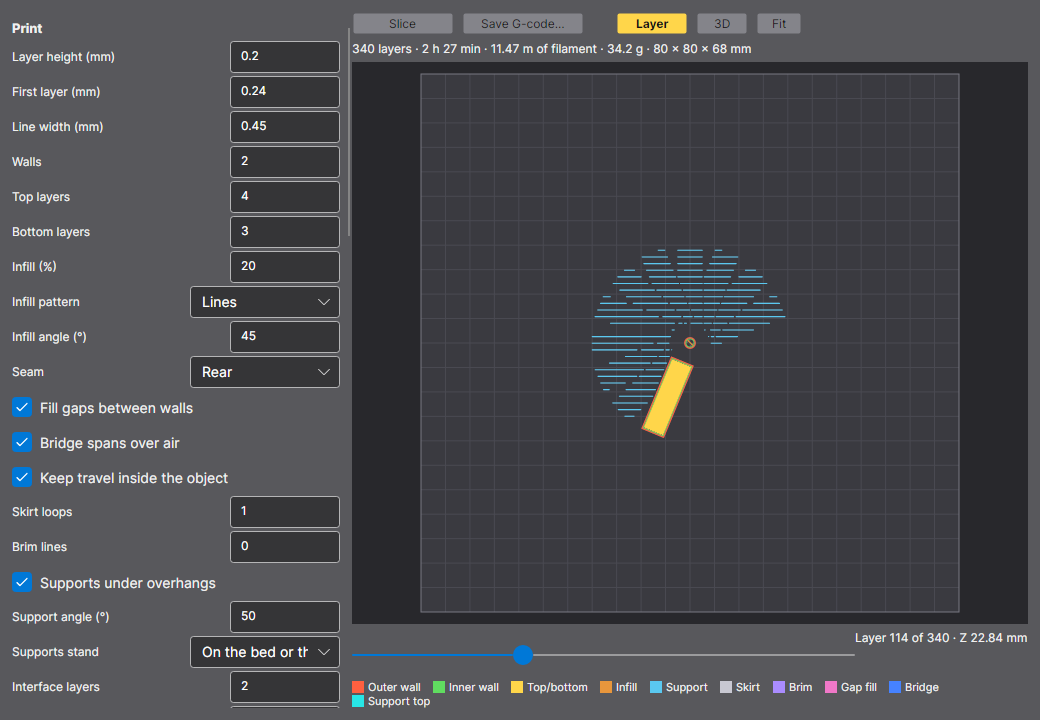
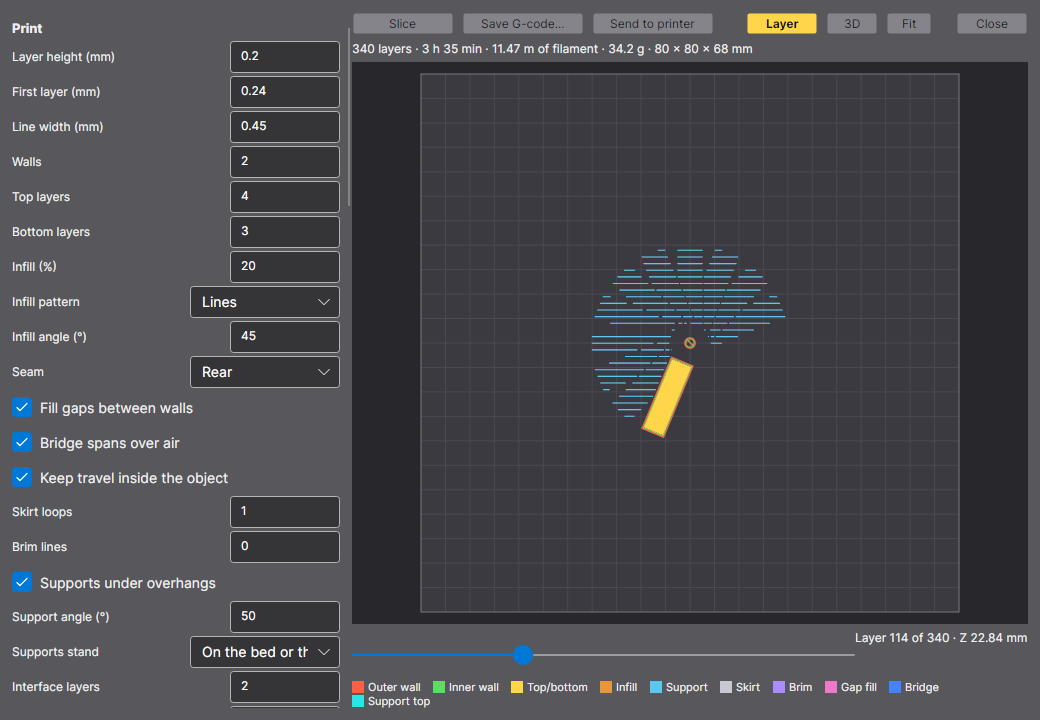
README test counts and the Print window's screenshots

Changed region(s): [[0.4, 0.0, 0.8923, 0.0917], [0.9231, 0.0, 0.9846, 0.0611]]

diff --git a/README.md b/README.md
@@ -880,7 +880,7 @@ dotnet run --project src/AVAModeler
 dotnet test AVAModeler.slnx
 ```
 
-It needs the .NET 10 SDK. 1268 tests cover every layer:
+It needs the .NET 10 SDK. 1294 tests cover every layer:
 
 | Tests | Count | What they cover |
 |---|---|---|
@@ -888,14 +888,14 @@ It needs the .NET 10 SDK. 1268 tests cover every layer:
 | Formats | 93 | LWOB byte-identical round trips (textures included, and hand-built procedural CTEX/BTEX/DTEX/STEX sub-chunk sets: their colours, values, falloff and settings read, an unknown kind kept, edits rewriting only what changed, new procedurals of every kind written and read back), LWLO layers, detail polygons, LWO2 (UV maps, seams and image blocks), GEO, OBJ (`vt` and .mtl maps), image paths, malformed files; glTF: a .glb's structure checked by hand (header, 4-byte chunk alignment, the JSON, POSITION's min and max, buffer views inside the buffer), round trips as .glb, .gltf and .gltf with a .bin (triangle counts, positions, UVs, materials and the embedded image), a known triangle facing the right way after conversion, smooth and flat normals, projected maps baked into UVs, node transforms, strips and outside files, malformed files; STL binary and ASCII round trips, Z up and winding, a binary file that starts with "solid"; LWO2 procedural blocks (known kinds read, others skipped); colour procedurals baked into glTF images, as a box map (each side's checks where they are on a box and a floor) and through a UV map |
 | Geometry | 110 | Booleans and drills (exact volumes, watertight results, UVs kept), subdivision, the Multiply algorithms, triangulation; the mesh check on known shapes (a closed box's volume, area and centre, a missing face's 4-edge hole, two holes, two shells, a flipped face, an inside-out box with negative volume, a cavity, duplicate and unused points, degenerate and non-manifold polygons, a ball's volume against 4/3·π·r³, non-planar quads, dots and lines, millimetre sizes) and Remove Degenerate; the edge and face tools, each followed by the mesh check: loops across a grid, round a hole's rim and stopped by a triangle, rings round a cylinder and a box, Loop Cut round a box (one cut and three) and a cylinder and across one into its caps, Fill Hole every way on a box missing a face and as quads on an octagon, Bridge between two open boxes (at every starting rotation, without twist, and in segments), between two faces and between edge loops, refusing 4 points against 8, Inset one face (with a frustum's exact volume) and as a group or face by face, Chamfer of one box edge (the prism's volume), rounded (against a quarter circle), three edges at a corner, every edge and a loop of four; UVs on the new points checked against their positions |
 | Rendering | 51 | The four views' projections; a document as the views draw it; the OpenGL camera matrix landing every point where the software one does; shading, smoothing, picking; textures, with the OpenGL renderer's textured picture checked against the software one (on a real OpenGL or OpenGL ES context where there is one); a checkerboard drawn at every pixel of a four-cornered face, value-channel and unknown procedurals leaving the view alone, and marble, fractal noise, wood, dots and a checkerboard drawn by the OpenGL shader as the software renderer draws them (its vertex data and sums, and on a real context); backdrops in the top, front and side views where their world coordinates say (each view's camera axes matching), panning and zooming with the view, not in the other views, under the grid and the wireframe, brightness, contrast, invert and opacity, a missing image's checker, and the OpenGL renderer's backdrop matching the software one (its vertex data and shader sums, and on a real context). The screen door for dissolved layers (dither coverage, faces and wire, the software and OpenGL pictures agreeing); the OpenGL comparison tests share one collection, and `OffscreenGl` makes and closes its contexts one at a time. Sizing an OpenGL view from its framebuffer (the attachment, then the viewport, then the bounds), a real framebuffer's renderbuffer and texture sizes with their bindings put back, and a square drawn at the middle of a framebuffer twice its control's size. |
-| Slicing | 121 | Profiles and their checks, placeholders, the setup's JSON; placing a cube on the bed (20 mm from 2 cm, centred or as modelled, scaled, too big or overhanging said, background layers left out); slicing a cube, a tube's hole, separate and overlapping shells, a solid in a hole, a pyramid's shrinking squares, an open mesh's chains, the last layer ending at the top; Clipper2's offsets, unions, differences, clipped lines and islands; toolpaths (wall lengths, solid layers at the top and bottom only, skin and infill spacing, lines turning each layer, grid both ways, walls round holes, seams at the back, a brim touching the object, supports under a T with their gap and none under a cube, short orders); G-code played back as a printer would (heated and homed first, every line on the object, the filament matching the lines' volume, retraction put back, hops round travel, placeholders, speeds by kind, plain ASCII, a whole file); the same safety checks over cubes, a tube, a ball, a T with supports and two blocks with brims, grids, hops, seams, fine layers, a smaller bed and another material (on the bed, under the height, hot before printing, layers rising, retractions put back); a 9000-triangle ball's cuts within 3% of its true circles, sliced in seconds; a solid cube's plastic matching its volume; and a small print against a reference G-code file; gap fill along a fin too thin for a wall and between walls with no room for another loop (with its own width's filament), bridges across an arch at the angle that lands on both posts with the fan full, quick layers slowed to cool, combing round a hole (and when it can't) cutting a tube's retractions, laying a box on its largest or selected face, turning it, copies in rows, rotations, support interface layers crossways and bed-only supports; every printer preset checked and slicing a cube safely on its own bed (in its own coordinates, with its own retraction), the Creator Pro round its middle with Sailfish homing, round beds, and the new printer settings through JSON |
+| Slicing | 146 | Profiles and their checks, placeholders, the setup's JSON; placing a cube on the bed (20 mm from 2 cm, centred or as modelled, scaled, too big or overhanging said, background layers left out); slicing a cube, a tube's hole, separate and overlapping shells, a solid in a hole, a pyramid's shrinking squares, an open mesh's chains, the last layer ending at the top; Clipper2's offsets, unions, differences, clipped lines and islands; toolpaths (wall lengths, solid layers at the top and bottom only, skin and infill spacing, lines turning each layer, grid both ways, walls round holes, seams at the back, a brim touching the object, supports under a T with their gap and none under a cube, short orders); G-code played back as a printer would (heated and homed first, every line on the object, the filament matching the lines' volume, retraction put back, hops round travel, placeholders, speeds by kind, plain ASCII, a whole file); the same safety checks over cubes, a tube, a ball, a T with supports and two blocks with brims, grids, hops, seams, fine layers, a smaller bed and another material (on the bed, under the height, hot before printing, layers rising, retractions put back); a 9000-triangle ball's cuts within 3% of its true circles, sliced in seconds; a solid cube's plastic matching its volume; and a small print against a reference G-code file; gap fill along a fin too thin for a wall and between walls with no room for another loop (with its own width's filament), bridges across an arch at the angle that lands on both posts with the fan full, quick layers slowed to cool, combing round a hole (and when it can't) cutting a tube's retractions, laying a box on its largest or selected face, turning it, copies in rows, rotations, support interface layers crossways and bed-only supports; every printer preset checked and slicing a cube safely on its own bed (in its own coordinates, with its own retraction), the Creator Pro round its middle with Sailfish homing, round beds, and the new printer settings through JSON; .x3g for the Creator Pro byte for byte on a small program and read back command by command for a cube (heated and waited for with no timeout, homed, every move on the bed, every millimetre of filament to the step, G28 refused); uploads to a fake OctoPrint and Moonraker (the path, the key only in its header, print on or off, refusals, busy and unreachable printers as one line with the key masked, the key's owner-only file); gyroid infill's density, curves and shift with height; move times with acceleration and corners; and every material printing a cube at its temperatures |
 | Tools | 94 | Every tool, the numeric parameters and their checks, the command API, Lua macros (and their time limit), a plugin loaded from its own assembly, the spaceship and logo built from scratch; Make UVs, UVs through every kind of edit, the UV space, the texture commands, macros saving and loading glTF and STL; Select Problems for each kind (and its undo), Align fixing what the check calls flipped, Remove Degenerate (and its undo), and `checkmesh()`; `slice()` (its options, the macro's folder, a table back, nothing changed in the object, its mistakes writing nothing); Select Loop and Ring (from an edge or two points), and Loop Cut, Inset (group and individual), Chamfer, Fill Hole and Bridge on UV-mapped boxes: closed, mapped, undone exactly and redone, their errors, and a macro using `seledges`, `selloop`, `selring` and the new tools; `proctex()` and `texture()` with a procedural's name (settings by name, each call one undo step, mistakes changing nothing) and the procedurals sample; `backdrop()` and `nobackdrop()` (options, relative paths from the macro's folder, Fit and PixelSize, mistakes changing nothing, a missing image's note, backdrops kept through new and load) and the rocket blueprints sample. The Lua sandbox for other apps (their own globals and print, the time limit, no os, io or require, errors as `MacroException`, the table helpers). |
 | Scene | 298 | Transforms, TCB envelopes, cameras, lights, LWS v1/v3 and JSON scenes, bones, morphs, the ray tracer and its textures, filtering and bump maps; procedurals rendered (a marble ball differing from a plain one and the same every time, a checkerboard moving with its object or staying put in world coordinates, a luminosity procedural, fractal-noise and ripple bumps changing the shading but not the silhouette) and kept in .avascene files; scene snapshots (morph and displacement settings included) and copies, aiming an item at a point, object paths relative to the scene; the render effects: with all of them off a busy scene renders byte for byte as before they existed (pinned hashes), ambient occlusion darkening a corner but not the open floor, an area light's shadow with a penumbra where a point light's is hard (and a radius softening point and spot lights), an area light shining from its front only, the environment as the backdrop in every direction (turned by its heading, scaled by its intensity), in a mirror, and lighting a ball's side facing the bright sky, built-in environments and a missing one's warning, depth of field keeping the focused card's edge sharp and blurring the other, LightWave's lens maths, motion blur smearing a moving ball along its path while a still one stays sharp (and a panning camera), the same picture every time on any threads, and every setting through snapshots, copies, .avascene (an environment file stored relatively) and .lws (LightWave 5's and 6's camera lines and area lights); inverse kinematics: a two-bone arm reaching a goal within reach (and following it as it moves), stretched straight toward one out of reach, joint limits keeping rotations in bounds, locked channels keeping their keys, an anchor stopping the chain, the same answer every time, in copies and on many threads, the solved pose bending the object, full-time IK off playing the keys, baking, what can't be a goal, and the settings through snapshots, .avascene and .lws (LightWave 5's `GoalObject` and limits read); following a path: the spline along a line and round a circle (on it, wrapping, evenly by length, turning by one over its radius), an item where its path.position says at each frame, aligned along the tangent and looking ahead, banking into turns with its bank key added, a parented follower and moving points, what can't be a point, points removed, snapshots, copies, .avascene, the .lws warning, and baking; an item's lock through copies, snapshots and .avascene (written only when set). Key spans (TCB unchanged bit for bit, linear, stepped, Bezier the same as Hermite), continuity at keys, behaviours with every span, slopes and time scaling, .avascene and .lws span round trips; motion modifiers (lag, jitter, cycle, oscillate, loops cut whatever is asked first, copies, snapshots, .avascene, a lagged object rendered where its leader was) and .mot files (version 1 and 3 round trips, a LightWave 5 file, malformed ones refused, applying to another item); light effects: shadow maps against ray-traced shadows (no shadow rays, fuzziness, point and distant lights), lens flares (fades behind and off screen, streaks, the intensity envelope, alpha untouched), volumetric beams (inside the cone only, shadowed shafts, samples, fog), the same bytes on any number of threads, and their files; object dissolve (colour and alpha, shadows, wholly dissolved), image sequences (resolving, holding, looping, offsets), sequence textures, background and foreground compositing with colour and alpha keys, warnings, and their copies, snapshots and files; copying items into a scene (`CopyItems`: within it and from another, bones with their object, links among the copies). |
 | Layout | 94 | Layout's session without its controls: how values become keys (the controls' and agents' alike), the modified flag, loading and saving scenes, looking through a camera, what the views draw (a colour procedural moving with its object); undo and redo of every kind of step, a drag as one step, the depth limit, clearing on a new or loaded scene, undoing back to the saved scene; rendering animations (numbering and step, progress, cancelling, the scene copy) and joining them into movies with ffmpeg (its arguments, finding it, doing without it, and a real MP4 and GIF where it's installed); glTF scene export (the hierarchy, a camera and lights, a heading turning the same way, keyed motion sampled every frame, a .gltf with its .bin, and what it leaves out, an area light as a wide spot); the render effects' undo, Focus on (an object's middle, a null, refusing one behind the camera), the area light's and soft light's drawings, a missing environment among the image problems, and Render Animation with motion blur; a banked camera's view tilting a horizon as the ray-traced render does (and its axes where the render has them); IK's Bake and Key IK as undo steps and the goal's line in the view; the dope sheet's rows, choosing keys by click, Shift and box, moving them snapped to frames as one undo step keeping their TCB, replacing keys they land on, scaling about the earliest or a pivot (keys merging), copying and pasting at a frame, deleting all but a channel's last key, and lights' and morphs' channels; path following's Even speed, path.position keyed by the usual rule and in the dope sheet, baking, and the path drawn in the view. `CurveEditor` (curves from SceneChannels, showing and choosing curves, keys across curves and boxes, dragging and nudging, fields, spans and behaviours on several keys, copy and paste onto another channel or item, delete and scale with slopes, each one undo step), keying and retiming keeping spans; motion modifiers and LoadMotion as undo steps, glTF export of modified motion; the light effects' undo steps and view hints; dissolve in the views, SetDissolve, SetImages and SetCompositing as undo steps; undo steps that merge (same name, nothing in between, never across an undo, redo or the saved scene); a Layout scene drawn with OpenGL offscreen matching the software picture. |
 | Mcp | 137 | Every MCP tool group with its errors and undo, the Layout tools included (unknown items and channels, frames out of range, paths outside the working folder, a failed call leaving the scene as it was and no undo step, undo_scene and redo_scene on the shared history, the look-at maths, keys read between frames); morphs (targets copied, mismatches refused, weights keyed), displacements (the wave's maths, renumbering), skelegons → bones and bones' rest settings, each undone; render_animation's movies (with ffmpeg, and without it) and make_movie joining frames rendered in parts (missing frames, mixed sizes); every recipe (prompt) followed call by call through the server and its result checked; whole agent sessions building a table and then staging, animating, rendering, saving and reopening a scene; the live mode through a pipe and the bridge, its UI-thread marshalling, the person's undo taking back an agent's scene step, and its waiting for a busy person; the built app as an MCP server and as a bridge, as real processes; saving and opening .glb, .gltf (with and without a .bin) and .stl (binary and ASCII) through the handlers, a macro and a client, never over someone else's .bin, and export_scene; check_mesh (volumes in m³, inside-out and open meshes with their fixes, layers from 1, bad arguments) and an agent checking, selecting, fixing and checking again through a client; `select_edges`, `select_loop` and `select_ring` (and their mistakes), Loop Cut through `run_tool` as one undo step, and an agent bridging two boxes, rounding every edge and filling a hole through a client, checking each time; `set_procedural` (settings by name, the same layer or a new one, values and amplitudes, its mistakes changing nothing, its description naming every kind and setting with its default) and an agent texturing a floor through a client, seen in render_view and render; the marble table recipe; the render effects through set_scene (one undo step, built-in and file environments), add_light and set_item (area lights, radii, depth of field with focus_on, f-stop or aperture, motion blur), their mistakes changing nothing, render_scene and render_animation honouring them (the rays a pixel counted against the limit), a client reaching them, and the product shot recipe; set_backdrop (placing, changing, fitting, sizing from pixels and clearing, no undo step, paths outside the working folder and files that aren't pictures refused, mistakes changing nothing), render_view showing and framing a backdrop, get_document listing them, and an agent using them through a client; render_scene_view's camera view turning with the camera's bank; set_ik (goals, limits, locks, anchors, full time, its mistakes changing nothing, undo) and bake_ik, directly and through a client; shift_keys and scale_keys (one item or all, one channel, a range, replacing keys, their mistakes); set_follow_path (a closed loop timed by from_frame and to_frame, facing along it, path.position through get_keys and set_key, its mistakes) and bake_path; and the reaching_arm and car_on_loop recipes; set_item's lock (shown only when set, undone); server profiles: every tool in the scene or the modeling group, AVA Modeler's own profile unchanged, and another app's Layout-only server (its tools, recipes, descriptions, instructions and version, add_object asking for a file, its own live pipe and bridge, and its command line). set_key's spans and slopes; add, set and remove_motion_modifier; set_lens_flare, set_volumetric_light and set_shadow_map; load_image, remove_image, set_compositing and set_dissolve; each with errors that change nothing, and undo. slice_to_gcode (a box at a scale to G-code with PETG's temperatures, no undo step; wrong presets, settings and extensions, paths outside the working folder and someone else's file refused, writing nothing; too big for the bed warned of; nothing to print; laid flat, turned, copied and bed-only supports; `slice()` in an agent's macro kept to the working folder). |
 | Hub | 12 | The hub's wire on pipes of the tests' own: a message answered, a refusal and a handler's failure coming back as their reasons, bad messages refused before the app sees them, one listener a pipe (and starting again after stopping), an app that isn't there said quickly, per-app per-user pipe names, the owner-only hand-over folder and its file names, and finding the other program (a setting, beside this one, a sibling folder, the PATH, a development .dll run with dotnet) and its command line, never started for real. `object_changed` on the wire (full paths only), one live file per link, files written whole. |
 | Chat | 57 | The chat's agent loop against a fake Anthropic API (no real calls): a conversation that makes a ball, looks at it and answers, with the picture going back as an image block; the tools sent being exactly the MCP server's; prompt-cache breakpoints; tool errors, 401, 429, 529, 500 and network failures with Retry; the step cap, and Auto-continue carrying on past it by itself, then stopping at its ceiling; Stop while a reply streams and while a call waits for a busy person; New Chat in the middle of a request; the API key's file (owner-only) and masking. The same against a fake OpenAI-compatible server (no real server): streamed text, tool calls whose names and arguments arrive in pieces put together and run, several calls in one turn, the request's tools, tool messages and image parts checked as JSON, pictures as a note for a model that can't see them, the core tool set, 401, 404 (model not found), 400 (no tool support, no images), 429, 500 and a refused connection as one line with Retry, a gateway's key only in its header and masked even when echoed back, Stop mid-reply, the tool limit and Auto-continue, arguments that aren't JSON, an answer that isn't streamed, a reply cut short, a missing model or bad base URL, switching provider, model lists in OpenAI's and Ollama's shapes, and the gateway key's own owner-only file; chat history in a temporary folder: a Claude chat saved, opened in a new session and carried on with the same tool_use ids, results and picture in Anthropic's format, and an OpenAI-compatible one in its own (tool_calls and tool messages); another provider's chat read-only until that provider is chosen again; no key (Anthropic's or a gateway's) in any file, and owner-only files; pictures over the limit left out and said to be; newest first, delete, clear, damaged files and bad ids; Markdown export with pictures beside it; a chat saved mid-request carrying on with its calls answered; another app's own system prompt and core tools for both providers, its profile's tools, and its name in exported chats |
-| UI | 128 | The window, mouse and keyboard driven through a headless window, the numeric panel folding (N) and a requester opening it, the chat's Auto-continue box, the UV view, the texture panel (its Texture type list turning a layer into a procedural and back, the procedural's settings shown, one undo step, an unknown kind shown as not drawn), Layout (its Ctrl+Z, Ctrl+Shift+Z and Ctrl+Y, and Edit › Undo and Redo) and its Render Animation window, an AI agent working in the open window and in its Layout scene, the AI Chat panel (a fake Claude making a ball that Ctrl+Z undoes, a missing key, Retry, Stop while the person is busy; switching to a fake local server in Setup…, Refresh listing its models, building with it and switching back; Preferences reaching the panel; a server that isn't running), the chat settings' preferences round trip, Mesh Info (W, following the object, its Select button and Ctrl+Z, its Align button sparing a cavity, the menu and tabs), the new tools' buttons, keys (Alt+L, Alt+R, I, Ctrl+B) and menu items, a Loop Cut dragged with no edge saying why and changing nothing, Mesh Info's Fill Hole button, and the screenshots (one of the still life opened again from a .glb, one of Mesh Info, one of the edge tools, one of the chat on a local model, the procedurals in the view, the texture panel and a ray-traced frame); Scene Settings' ambient occlusion and environment (one undo step, bad values and a missing picture refused), the camera panel's depth of field, Focus on and motion blur, the light panel's area size, radius and shadow samples, and the render effects' screenshots (the showcase, a motion-blurred frame and the settings panel); the Backdrop panel (D, the Display tab, typed numbers changing the view at once, the height and Keep shape, Fit to Object, Size from Pixels, a missing image's note, Clear), Save and Load Setup, backdrops kept through New, remembered for an object's file (in a temporary folder) and back when it's opened, a missing one's checker and note, and the blueprints screenshot; the IK settings in the bone panel (goal choices, limits typed in, locks, anchor, Bake IK and Ctrl+Z); the dope sheet (D and View › Dope Sheet, click, Shift-click, dragging keys in time, a box, arrows, Delete, Ctrl+C and Ctrl+V, Ctrl+A and Scale ×, scrubbing the frames); the item panel's path (points chosen, Follow a path, Closed, Even speed, Bake path, undo); chat history (off by default, Keep chat history saving at once and after each request, History's list, opening, exporting, deleting and clearing, the last chat back in a new window, another provider's read-only and back); and the screenshots of the dope sheet with a car on its path, an IK arm through a banked camera, and the chat history; Layout's view for other hosts (the mouse modes, the axes, the edit-mode pick filter, locked items left alone, the light view) and the item panel's extras; the chat panel's wording for another app; and the hub in a window on pipes of the tests' own (Edit in Modeler opening an object and linking it, refused over unsaved work, a save telling AVALightWave with the link, Send to AVALightWave handing over an unsaved object as a copy and keeping its link, and starting AVALightWave, faked, when it isn't there). The graph editor (the curve list, click, Shift and box choosing, value and time drags, arrows, the key panel on two keys as one step, spans, behaviours, copying onto another channel, Scale ×, Ctrl+Z); live sync to a stand-in AVALightWave (debounced, a readable copy, not when unlinked or turned off, not during a drag, never holding up edits) and the hub status line; SceneView drawing no scene for an OpenGL surface under it, and GlSurface where OpenGL can't start. The 3D Print window (File › 3D Print and the Objects tab, one window; slicing on a worker and the layer slider; the setup kept in the preferences; out of date after an edit or a change of setting; bad numbers said and nothing sliced; Save G-code slicing first; your own printer and material beside the presets, a preset's name refused; an open mesh and an empty object reported; copies; the 3D view stacking layers, turning and going back; choosing the Creator Pro and a delta from the presets, their notes and beds) and its screenshots. |
+| UI | 129 | The window, mouse and keyboard driven through a headless window, the numeric panel folding (N) and a requester opening it, the chat's Auto-continue box, the UV view, the texture panel (its Texture type list turning a layer into a procedural and back, the procedural's settings shown, one undo step, an unknown kind shown as not drawn), Layout (its Ctrl+Z, Ctrl+Shift+Z and Ctrl+Y, and Edit › Undo and Redo) and its Render Animation window, an AI agent working in the open window and in its Layout scene, the AI Chat panel (a fake Claude making a ball that Ctrl+Z undoes, a missing key, Retry, Stop while the person is busy; switching to a fake local server in Setup…, Refresh listing its models, building with it and switching back; Preferences reaching the panel; a server that isn't running), the chat settings' preferences round trip, Mesh Info (W, following the object, its Select button and Ctrl+Z, its Align button sparing a cavity, the menu and tabs), the new tools' buttons, keys (Alt+L, Alt+R, I, Ctrl+B) and menu items, a Loop Cut dragged with no edge saying why and changing nothing, Mesh Info's Fill Hole button, and the screenshots (one of the still life opened again from a .glb, one of Mesh Info, one of the edge tools, one of the chat on a local model, the procedurals in the view, the texture panel and a ray-traced frame); Scene Settings' ambient occlusion and environment (one undo step, bad values and a missing picture refused), the camera panel's depth of field, Focus on and motion blur, the light panel's area size, radius and shadow samples, and the render effects' screenshots (the showcase, a motion-blurred frame and the settings panel); the Backdrop panel (D, the Display tab, typed numbers changing the view at once, the height and Keep shape, Fit to Object, Size from Pixels, a missing image's note, Clear), Save and Load Setup, backdrops kept through New, remembered for an object's file (in a temporary folder) and back when it's opened, a missing one's checker and note, and the blueprints screenshot; the IK settings in the bone panel (goal choices, limits typed in, locks, anchor, Bake IK and Ctrl+Z); the dope sheet (D and View › Dope Sheet, click, Shift-click, dragging keys in time, a box, arrows, Delete, Ctrl+C and Ctrl+V, Ctrl+A and Scale ×, scrubbing the frames); the item panel's path (points chosen, Follow a path, Closed, Even speed, Bake path, undo); chat history (off by default, Keep chat history saving at once and after each request, History's list, opening, exporting, deleting and clearing, the last chat back in a new window, another provider's read-only and back); and the screenshots of the dope sheet with a car on its path, an IK arm through a banked camera, and the chat history; Layout's view for other hosts (the mouse modes, the axes, the edit-mode pick filter, locked items left alone, the light view) and the item panel's extras; the chat panel's wording for another app; and the hub in a window on pipes of the tests' own (Edit in Modeler opening an object and linking it, refused over unsaved work, a save telling AVALightWave with the link, Send to AVALightWave handing over an unsaved object as a copy and keeping its link, and starting AVALightWave, faked, when it isn't there). The graph editor (the curve list, click, Shift and box choosing, value and time drags, arrows, the key panel on two keys as one step, spans, behaviours, copying onto another channel, Scale ×, Ctrl+Z); live sync to a stand-in AVALightWave (debounced, a readable copy, not when unlinked or turned off, not during a drag, never holding up edits) and the hub status line; SceneView drawing no scene for an OpenGL surface under it, and GlSurface where OpenGL can't start. The 3D Print window (File › 3D Print and the Objects tab, one window; slicing on a worker and the layer slider; the setup kept in the preferences; out of date after an edit or a change of setting; bad numbers said and nothing sliced; Save G-code slicing first; your own printer and material beside the presets, a preset's name refused; an open mesh and an empty object reported; copies; the 3D view stacking layers, turning and going back; choosing the Creator Pro and a delta from the presets, their notes and beds, saving .x3g, a material's notes, and Send to printer to a fake OctoPrint keeping the key out of the preferences) and its screenshots. |
 
 The screenshots are drawn by the tests in a real (headless) window:
 
